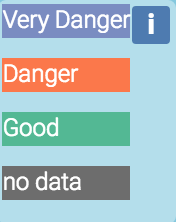
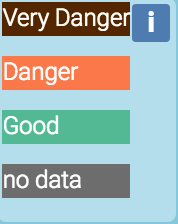
Align color for feature selecting

diff --git a/main.js b/main.js
@@ -228,7 +228,7 @@ var vectorStyleFunction = function(feature) {
   if (properties.dangerindex === '3') {
     style = new ol.style.Style({
       fill: new ol.style.Fill({
-        color: [141, 160, 203, 0.5]   //'custom blue'
+        color: [102, 51, 0, 0.5]   //'custom brown'
       })
     });
   }
@@ -254,7 +254,7 @@ var theCaptionControl = function(opt_options) {
     var options = opt_options || {};
 
     var theInfo = document.createElement('div');
-    theInfo.innerHTML = '<p style="background-color:#8da0cb;color:white">Very Danger</p><p style="background-color:#fc8d62;color:white">Danger</p><p style="background-color:#66c2a5;color:white">Good</p><p style="background-color:gray;color:white">no data</p>';
+    theInfo.innerHTML = '<p style="background-color:#663300;color:white">Very Danger</p><p style="background-color:#fc8d62;color:white">Danger</p><p style="background-color:#66c2a5;color:white">Good</p><p style="background-color:gray;color:white">no data</p>';
     theInfo.style.float = 'right';
     theInfo.style.display = 'none';
 
@@ -392,7 +392,7 @@ var selectedStyleFunction = function(feature, resolution) {
       width: 3
     }),
     fill: new ol.style.Fill({
-      color: [0, 255, 0, 0.5]   //'green'
+      color: [102, 194, 165, 0.5]   //custom 'green'
     })
   });
   if (properties.dangerindex === '1') {
@@ -402,7 +402,7 @@ var selectedStyleFunction = function(feature, resolution) {
         width: 3
       }),
       fill: new ol.style.Fill({
-        color: [255, 0, 0, 0.5]   //'red'
+        color: [252, 141, 98, 0.5]   //custom 'red'
       })
     });
   }
@@ -413,7 +413,7 @@ var selectedStyleFunction = function(feature, resolution) {
         width: 3
       }),
       fill: new ol.style.Fill({
-        color: [0, 0, 0, 0.5]   //'black'
+        color: [102, 51, 0, 0.5]   //custom 'brown'
       })
     });
   }
